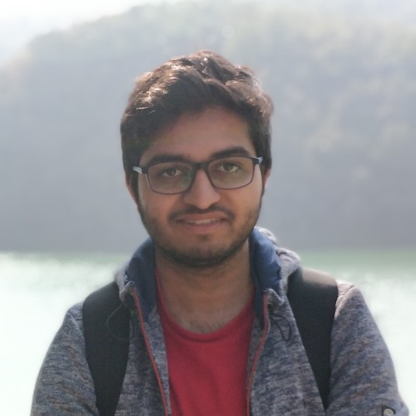
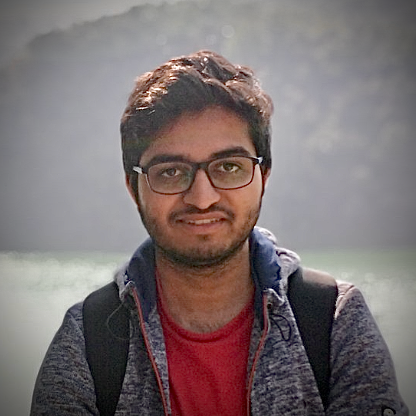
changde font and corrected gero image

diff --git a/assets/css/style.css b/assets/css/style.css
@@ -9,7 +9,7 @@
 # General
 --------------------------------------------------------------*/
 body {
-  font-family: 'Ubuntu', sans-serif !important;
+  font-family: 'Nunito', sans-serif !important;
   color: #272829;
   background: #f3f3f3;
 }
@@ -25,7 +25,7 @@ a:hover {
 }
 
 h1, h2, h3, h4, h5, h6 {
-  font-family: 'Ubuntu', sans-serif;
+  font-family: 'Nunito', sans-serif;
 }
 
 /*--------------------------------------------------------------
@@ -92,7 +92,7 @@ h1, h2, h3, h4, h5, h6 {
   font-weight: 600;
   -moz-text-align-last: center;
   text-align-last: center;
-  font-family: "Poppins", sans-serif;
+  font-family: 'Nunito', sans-serif;
 }
 
 #header .profile h1 a, #header .profile h1 a:hover {
@@ -250,13 +250,13 @@ h1, h2, h3, h4, h5, h6 {
   font-size: 80px;
   font-weight: 700;
   line-height: 56px;
-  color: #ffffff;
+  color: #bec9d7;
 }
 
 #hero p {
   color: #ffffff;
   margin-bottom: 50px;
-  font-size: 26px;font-weight: 700;
+  font-size: 26px;
   font-family: "Poppins", sans-serif;
 }
 
@@ -1291,7 +1291,7 @@ section {
   }
 }
 
-@media (max-width: 600px) {
+@media (max-width: 769px) {
   #hero{
     padding: 15px !important;
   }

diff --git a/index.html b/index.html
@@ -13,10 +13,8 @@
     <link href="assets/img/profile-pic-ysk.png" rel="apple-touch-icon" />
 
     <!-- Google Fonts -->
-    <link
-      href="https://fonts.googleapis.com/css?family=Open+Sans:300,300i,400,400i,600,600i,700,700i|Raleway:300,300i,400,400i,500,500i,600,600i,700,700i|Poppins:300,300i,400,400i,500,500i,600,600i,700,700i"
-      rel="stylesheet"
-    />
+    <link rel="preconnect" href="https://fonts.gstatic.com">
+    <link href="https://fonts.googleapis.com/css2?family=Nunito:wght@400;700&display=swap" rel="stylesheet">
 
     <!-- Vendor CSS Files -->
     <link href="assets/vendor/aos/aos.css" rel="stylesheet" />
